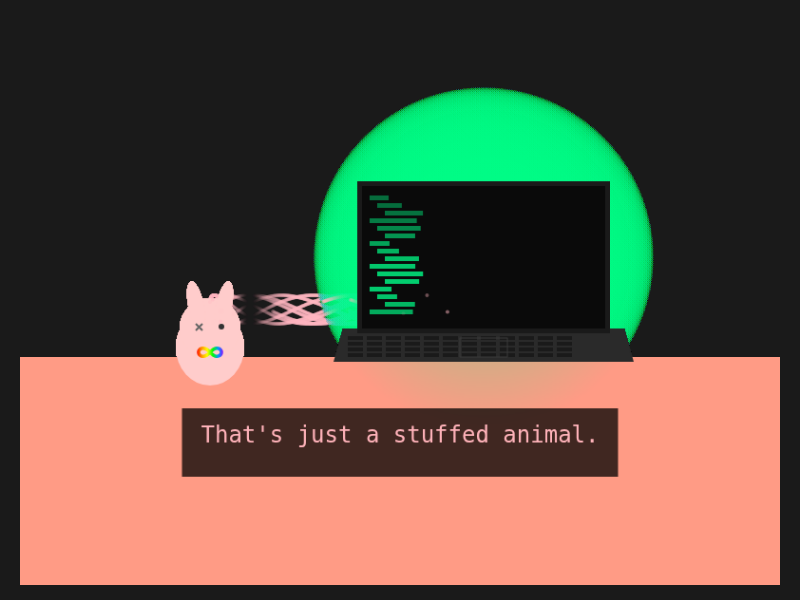
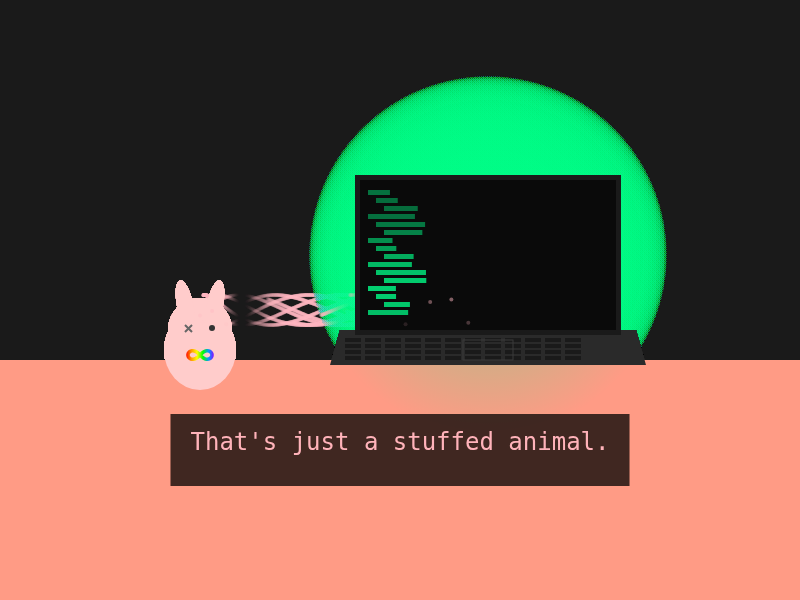
Extend #039 canvas to full card width

Changed region(s): [[0.0312, 0.12, 0.9688, 0.81], [0.0, 0.6, 1.0, 1.0]]

diff --git a/2026-03-12-pink-pal.html b/2026-03-12-pink-pal.html
@@ -8,17 +8,17 @@
 * { margin: 0; padding: 0; box-sizing: border-box; }
 body { 
   background: #1a1a1a; 
-  display: flex; 
-  justify-content: center; 
-  align-items: center; 
-  min-height: 100vh; 
+  margin: 0;
+  padding: 0;
+  width: 100%;
+  height: 100vh; 
   font-family: 'Courier New', monospace;
   overflow: hidden;
 }
 canvas { 
   display: block; 
-  max-width: 95vw; 
-  max-height: 95vh;
+  width: 100%;
+  height: 100%;
 }
 </style>
 </head>
